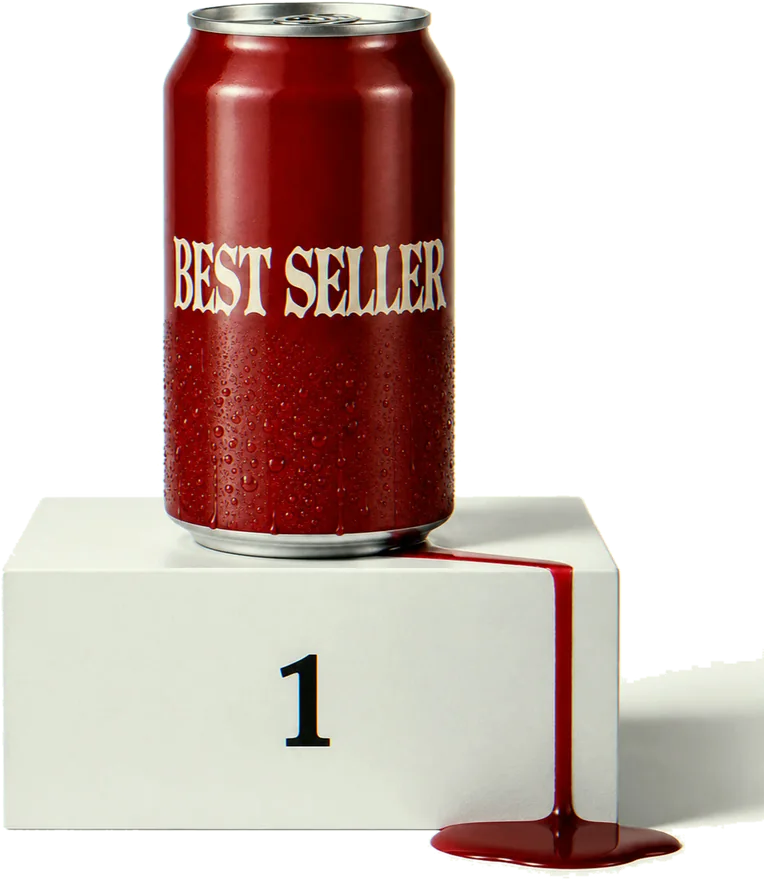
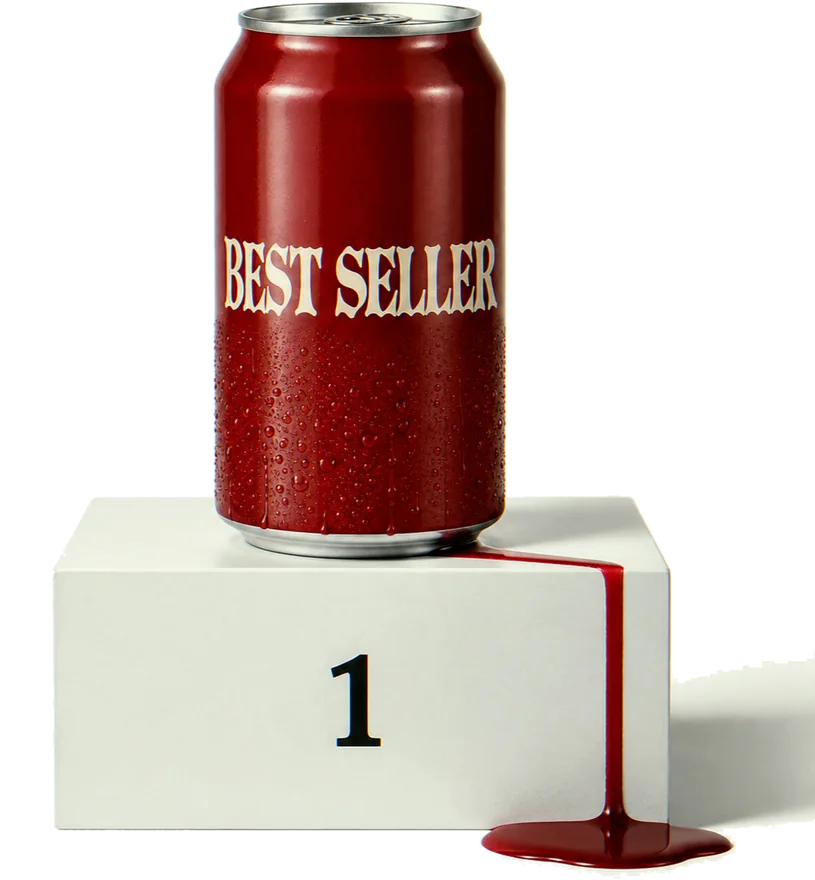
Mobile hero: fold group fills the viewport, image scales into the slack, standfirst anchors the bottom; recentre podium on visual mass

diff --git a/index.html b/index.html
@@ -237,7 +237,16 @@ a:focus-visible,summary:focus-visible{outline:2px solid var(--ink);outline-offse
 .samplelink a{font-family:'Space Mono',monospace;font-size:13.5px;letter-spacing:.06em;color:var(--ink);text-decoration:underline;text-underline-offset:3px}
 .legal{text-align:center;font-family:'Space Mono',monospace;font-size:12.5px;letter-spacing:.08em;padding-bottom:44px}
 .legal a{color:var(--soft);text-decoration:none;margin:0 10px}
-@media (max-width:640px){.hero{padding-top:14px}.mast .orb-s{margin-bottom:10px}.mast .tag{margin-top:10px}.canwrap{margin-top:8px}.stand{margin:22px auto 42px}}
+@media (max-width:640px){
+  .hero{padding-top:10px}
+  .mast .orb-s{margin-bottom:8px}.mast .tag{margin-top:8px}
+  /* one full viewport: masthead, then the image absorbs the slack, standfirst closes it out */
+  .fold{min-height:calc(100svh - 76px);display:flex;flex-direction:column}
+  .fold .mast{flex:1 1 auto;display:flex;flex-direction:column;min-height:0}
+  .fold .canwrap{flex:1 1 auto;min-height:0;display:flex;align-items:center;justify-content:center;margin-top:10px}
+  .fold .canwrap img{height:100%;width:auto;max-width:100%;object-fit:contain}
+  .fold .stand{flex:0 0 auto;margin:16px auto 20px}
+}
 footer a,.sig a{color:inherit;text-decoration:none}
 footer{padding:38px 0 54px;display:flex;justify-content:space-between;gap:16px;flex-wrap:wrap;font-family:'Space Mono',monospace;font-size:13.5px;letter-spacing:.08em;color:var(--soft)}
 @media (max-width:820px){.duo,.item,.case{grid-template-columns:1fr}.lab{padding-top:0}.say{max-width:100%}}
@@ -276,6 +285,7 @@ nav[data-open="true"] .burger span:nth-child(3){transform:translateY(-5.8px) rot
 
 <div class="w">
   <div class="hero">
+    <div class="fold">
     <div class="mast">
       <div class="orb-s">
         <video autoplay muted loop playsinline poster="3D/poster-lava.jpg">
@@ -287,9 +297,10 @@ nav[data-open="true"] .burger span:nth-child(3){transform:translateY(-5.8px) rot
       </div>
       <img src="assets/logo.svg" alt="VNMSFX">
       <p class="tag">Rapid response ops for<br>food &amp; beverage brands.</p>
-      <div class="canwrap"><img src="assets/podium.webp" width="764" height="880" alt="A can labelled BEST SELLER on a number-one podium, leaking from the base" fetchpriority="high" decoding="async"></div>
+      <div class="canwrap"><img src="assets/podium.webp" width="815" height="880" alt="A can labelled BEST SELLER on a number-one podium, leaking from the base" fetchpriority="high" decoding="async"></div>
     </div>
     <p class="stand"><span>Your #1 seller, mid-leak.</span>I build the AI-native system that catches it. Built once, yours to&nbsp;keep.</p>
+    </div>
     <div class="panel typeonly">
       <div class="hcopy">
         <h1>Run your business like you have an ops team. Without hiring one.</h1>
